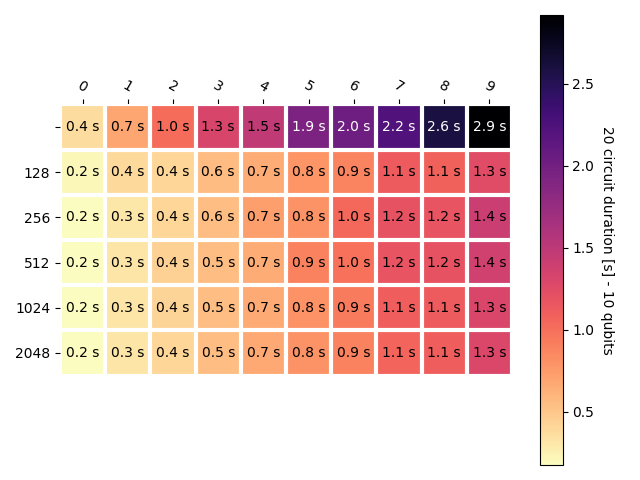
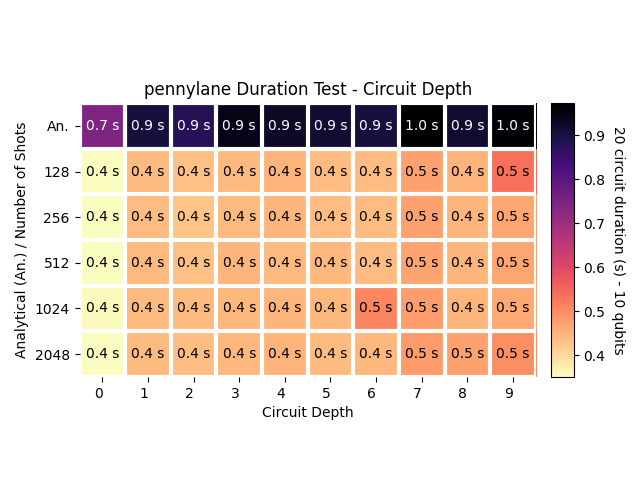
change structure of pennylane class, add modified plots, add a first draft of cirq class which isnt working yet

diff --git a/classes.py b/classes.py
@@ -4,6 +4,8 @@ from pennylane import numpy as np
 import qiskit as q
 from qiskit.circuit.random import random_circuit
 
+import cirq
+
 import config
 
 class duration_pennylane:   
@@ -20,25 +22,46 @@ class duration_pennylane:
         self.dev = qml.device("default.qubit", wires=self.qubits, shots=shots)
         self.w = np.random.rand(self.depth, self.qubits)
 
+        """    
         @qml.qnode(self.dev)        
         def create_circuit(w):
             qml.RandomLayers(weights=w, wires=range(self.qubits))
             return [qml.expval(qml.PauliZ(i)) for i in range(self.qubits)]
         w = self.w
-        return create_circuit(w)
-        """ #@qml.qnode(self.dev)        
+
+        for i in self.evals:
+            self.qcs.append(create_circuit(w))
+        return create_circuit(w) 
+        """             
+        """ def create_circuit(w):
+            qml.RandomLayers(weights=w, wires=range(self.qubits))
+            return [qml.expval(qml.PauliZ(i)) for i in range(self.qubits)]
+        qnode = qml.QNode(create_circuit, self.dev)
+        w = self.w
+        self.qcs = []
+        for i in range(self.evals):
+            self.qcs.append(create_circuit(w))
+        return qnode(w) """
+        
         def create_circuit(w):
             qml.RandomLayers(weights=w, wires=range(self.qubits))
             return [qml.expval(qml.PauliZ(i)) for i in range(self.qubits)]
         qnode = qml.QNode(create_circuit, self.dev)
         w = self.w
-        return qnode(w) """
-   
-    
-    
+        self.qcs = []
+        for i in range(self.evals):
+            self.qcs.append(qnode)
+        
+         
+      
     def execute(self, shots):
-        for _ in range(self.evals):
-            self.generate_circuit(shots)
+        #for _ in range(self.evals):
+        #    self.generate_circuit(shots)
+        
+        for i in self.qcs:
+            i(self.w)
+        
+        #result = qml.execute(tapes=self.qcs, device=self.dev, gradient_fn=None, device_batch_transform=False)
 
 class duration_qiskit:   
     def __init__(self):
@@ -66,3 +89,20 @@ class duration_qiskit:
 
     def execute(self, shots):
         result = q.execute(self.qcs, backend=self.backend, shots=shots).result() 
+
+class duration_cirq():
+    def __init__(self):
+        self.shots_list = config.shots_list
+        self.seed = config.seed
+        self.evals = config.evals
+        self.qubits = config.qubits
+        self.depth = config.depth
+
+    def generate_circuit(self, shots):
+        self.circuit = cirq.testing.random_circuit(qubits = self.qubits, n_moments = self.depth, random_state = self.seed, op_density=0.5)
+        self.simulator = cirq.Simulator()
+        
+
+    def execute(self, shots):
+        result = self.simulator.run(self.circuit, repetitions=20)
+

diff --git a/plot_util.py b/plot_util.py
@@ -1,9 +1,10 @@
 import numpy as np
 import matplotlib
 import matplotlib.pyplot as plt
+from mpl_toolkits.axes_grid1 import make_axes_locatable
 
 def heatmap(data, row_labels, col_labels, ax=None,
-            cbar_kw={}, cbarlabel="", **kwargs):
+            cbar_kw={}, cbarlabel="", axis_labels=("",""), title="", h_label_at_top=False, **kwargs):
     """
     Create a heatmap from a numpy array and two lists of labels.
 
@@ -32,20 +33,29 @@ def heatmap(data, row_labels, col_labels, ax=None,
     # Plot the heatmap
     im = ax.imshow(data, **kwargs)
 
+    divider = make_axes_locatable(ax)
+    cax = divider.append_axes("right", size="5%", pad=0.15)
+
     # Create colorbar
-    cbar = ax.figure.colorbar(im, ax=ax, **cbar_kw)
+    cbar = ax.figure.colorbar(im, ax=ax, cax=cax, **cbar_kw)
     cbar.ax.set_ylabel(cbarlabel, rotation=-90, va="bottom")
+
+    if None in row_labels:
+        row_labels[row_labels.index(None)] = "An."
 
     # Show all ticks and label them with the respective list entries.
     ax.set_xticks(np.arange(data.shape[1]), labels=col_labels)
     ax.set_yticks(np.arange(data.shape[0]), labels=row_labels)
 
     # Let the horizontal axes labeling appear on top.
-    ax.tick_params(top=True, bottom=False,
-                   labeltop=True, labelbottom=False)
+    
+    ax.tick_params(top=h_label_at_top, bottom=not h_label_at_top,
+                   labeltop=h_label_at_top, labelbottom=not h_label_at_top)
 
     # Rotate the tick labels and set their alignment.
-    plt.setp(ax.get_xticklabels(), rotation=-30, ha="right",
+    plt.setp(ax.get_xticklabels(), rotation=0, ha="right",
+             rotation_mode="anchor")
+    plt.setp(ax.get_yticklabels(), rotation=0, ha="right",
              rotation_mode="anchor")
 
     # Turn spines off and create white grid.
@@ -55,6 +65,11 @@ def heatmap(data, row_labels, col_labels, ax=None,
     ax.set_yticks(np.arange(data.shape[0]+1)-.5, minor=True)
     ax.grid(which="minor", color="w", linestyle='-', linewidth=3)
     ax.tick_params(which="minor", bottom=False, left=False)
+
+    ax.set_xlabel(axis_labels[0])
+    ax.set_ylabel(axis_labels[1])
+
+    ax.set_title(title)
 
     return im, cbar
 

diff --git a/test_duration.py b/test_duration.py
@@ -8,6 +8,8 @@ import plot_util
 import classes
 import config
 
+user_input = input("Choose your framework (pennylane, qiskit or cirq(not finished)): \n") 
+
 
 # Inhalt der config datei -----------------------------
 shots_list = config.shots_list
@@ -15,7 +17,8 @@ seed = config.seed
 evals = config.evals
 qubits = config.qubits
 depth = config.depth
-framework = classes.duration_pennylane()
+framework = eval("classes.duration_" + user_input +"()")
+
 
 # -----------------------------------------------------
 
@@ -45,15 +48,20 @@ for i, shots in enumerate(shots_list):
 # Darstellung depth -----------------------------------------
 fig, ax = plt.subplots()
 im, cbar = plot_util.heatmap(duration_matrix_depth, shots_list, [d for d in range(depth)], ax=ax,
-                   cmap="magma_r", cbarlabel=f"{evals} circuit duration [s] - {qubits} qubits")
+                   cmap="magma_r", cbarlabel=f"{evals} circuit duration (s) - {qubits} qubits",
+                   axis_labels=("Circuit Depth", "Analytical (An.) / Number of Shots"),
+                   title= user_input+" Duration Test - Circuit Depth")
 texts = plot_util.annotate_heatmap(im, valfmt="{x:.1f} s")
 fig.tight_layout()
-plt.savefig(f"plots/qiskit_duration_depth{qubits}_{depth}.png")
+plt.savefig(f"plots/{user_input}_duration_depth_{qubits}_{depth}.png")
+
 
 # Darstellung qubits ---------------------------------------
 fig, ax = plt.subplots()
 im, cbar = plot_util.heatmap(duration_matrix_qubits, shots_list, [d for d in range(depth)], ax=ax,
-                   cmap="magma_r", cbarlabel=f"{evals} circuit duration [s] - {qubits} qubits")
+                   cmap="magma_r", cbarlabel=f"{evals} circuit duration (s) - {qubits} qubits",
+                   axis_labels=("Circuit Depth", "Analytical (An.) / Number of Shots"),
+                   title= user_input+" Duration Test - Circuit Depth")
 texts = plot_util.annotate_heatmap(im, valfmt="{x:.1f} s")
 fig.tight_layout()
-plt.savefig(f"plots/qiskit_duration_qubits{qubits}_{depth}.png")
+plt.savefig(f"plots/{user_input}_duration_qubits_{qubits}_{depth}.png")
